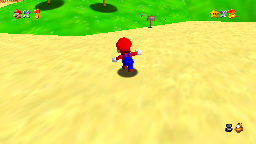
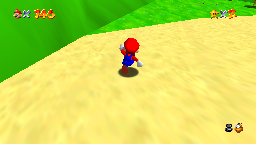
images are in correct slots

diff --git a/src/pc/pc_main.c b/src/pc/pc_main.c
@@ -322,7 +322,7 @@ void cam_focus_player(int playerIndex){
     // vec3f_copy(gLakituState.curFocus, gMarioStates[playerIndex].pos);
     
     gFOVState.fov = 60;
-    gHudDisplay.lives = playerIndex;
+    gHudDisplay.lives = gGlobalTimer;
 }
 
 
@@ -330,9 +330,7 @@ void force_make_frame(int playerIndex) {
 
     cam_focus_player(playerIndex);
 
-    CTX_BEGIN(CTX_INTERP);
-    patch_interpolations_before();
-    CTX_END(CTX_INTERP);
+
 
     // before level script
     config_gfx_pool();
@@ -346,56 +344,45 @@ void force_make_frame(int playerIndex) {
     display_and_vsync();
 
     // out of game loop
+    CTX_BEGIN(CTX_INTERP);
+    patch_interpolations_before();
+    CTX_END(CTX_INTERP);
+    CTX_BEGIN(CTX_RENDER);
+    produce_interpolation_frames_and_delay();
+    CTX_END(CTX_RENDER);
+    CTX_BEGIN(CTX_INTERP);
+    patch_interpolations_before();
+    CTX_END(CTX_INTERP);
     CTX_BEGIN(CTX_RENDER);
     produce_interpolation_frames_and_delay();
     CTX_END(CTX_RENDER);
 
-
 }
+
 void force_make_frame_support(int playerIndex) {
-    struct timeval startTime,time1,time2,time3,time4,time5,time6;
-
-    gettimeofday(&startTime, NULL);
-    cam_focus_player(playerIndex);
-    gettimeofday(&time1, NULL);
-
-    CTX_BEGIN(CTX_INTERP);
-    patch_interpolations_before();
-    CTX_END(CTX_INTERP);
-    gettimeofday(&time2, NULL);
+    // cam_focus_player(playerIndex);
+    gHudDisplay.lives = 420;
+    // CTX_BEGIN(CTX_INTERP);
+    // patch_interpolations_before();
+    // CTX_END(CTX_INTERP);
 
     // before level script
     config_gfx_pool();
-    gettimeofday(&time3, NULL);
 
     // level script
-    // 0.000120
     init_render_image();
     render_game();
     end_master_display_list();
     alloc_display_list(0);
-    gettimeofday(&time4, NULL);
 
     // after level script
     display_and_vsync();
-    gettimeofday(&time5, NULL);
 
     // out of game loop
-    // 0.000380
-    CTX_BEGIN(CTX_RENDER);
-    produce_interpolation_frames_and_delay();
-    CTX_END(CTX_RENDER);
-    gettimeofday(&time6, NULL);
+    // CTX_BEGIN(CTX_RENDER);
+    // produce_interpolation_frames_and_delay();
+    // CTX_END(CTX_RENDER);
 
-
-
-    double sec1 = (double)(time1.tv_usec - startTime.tv_usec) / 1000000 + (double)(time1.tv_sec - startTime.tv_sec);
-    double sec2 = (double)(time2.tv_usec - time1.tv_usec) / 1000000 + (double)(time2.tv_sec - time1.tv_sec);
-    double sec3 = (double)(time3.tv_usec - time2.tv_usec) / 1000000 + (double)(time3.tv_sec - time2.tv_sec);
-    double sec4 = (double)(time4.tv_usec - time3.tv_usec) / 1000000 + (double)(time4.tv_sec - time3.tv_sec);
-    double sec5 = (double)(time5.tv_usec - time4.tv_usec) / 1000000 + (double)(time5.tv_sec - time4.tv_sec);
-    double sec6 = (double)(time6.tv_usec - time5.tv_usec) / 1000000 + (double)(time6.tv_sec - time5.tv_sec);
-    printf("time: %f %f %f %f %f %f\n", sec1, sec2, sec3, sec4, sec5, sec6);
 }
 
 // bool doRun = false;
@@ -555,23 +542,29 @@ void update_controllers(struct inputStruct* inputs){
 
 
 struct gfxPixels** step_pixels(struct inputStruct* inputs){
-
+    
     update_controllers(inputs);
 
     produce_one_frame();
 
 
     // player 0's image gets overwritten for whatever reason if you don't have this
-    force_make_frame(MAX_PLAYERS-1);
-    force_make_frame(MAX_PLAYERS-1);
+    force_make_frame_support(MAX_PLAYERS-1);
+    force_make_frame_support(MAX_PLAYERS-1);
+    // force_make_frame(MAX_PLAYERS-1);
+    // force_make_frame(MAX_PLAYERS-1);
     for(int i = 0; i<MAX_PLAYERS; i++){
+
+        force_make_frame(i);
+
         if (gPixelPointers[i]){
             if (gPixelPointers[i]->pixels) free(gPixelPointers[i]->pixels);
             free(gPixelPointers[i]);
         }
-        force_make_frame(i);
-
         gPixelPointers[i] = gfx_get_pixels();
+
+
+        
     }
 
     return gPixelPointers;

diff --git a/src/game/game_init.c b/src/game/game_init.c
@@ -611,51 +611,6 @@ void game_loop_one_iteration(void) {
     // config_gfx_pool();
     read_controller_inputs();
 
-    // for (s32 i = 1; i < MAX_PLAYERS; i++) {
-    //     struct Controller *controller = &gControllers[i];
-    //     // if we're receiving inputs, update the controller struct
-    //     // with the new button info.
-    //     controller->controllerData = gControllers[0].controllerData;
-    //     if (random_u16() % 40 == 0){
-    //         controller->controllerData->button = random_u16();
-            
-    //     }
-    //     else{
-    //         controller->controllerData->button = 0;
-    //     }
-        
-    //     if (controller->controllerData != NULL) {
-
-    //         // the random part is added so that the marios dont just overlap constantly
-    //         // controller->rawStickX = gControllers[0].controllerData->stick_x;
-    //         // controller->rawStickY = gControllers[0].controllerData->stick_y;
-
-    //         // controller->rawStickX = gControllers[0].controllerData->stick_x + random_sign() * random_u16() % 100;
-    //         // controller->rawStickY = gControllers[0].controllerData->stick_y + random_sign() * random_u16() % 100;
-    //         controller->rawStickX = random_sign() * random_u16() % 100;
-    //         controller->rawStickY = random_sign() * random_u16() % 100;
-
-    //         if ( controller->rawStickX != 0 && controller->rawStickY != 0){
-    //             controller->controllerData->button |= INPUT_NONZERO_ANALOG;
-    //         }
-            
-
-    //         controller->extStickX = gControllers[0].controllerData->ext_stick_x;
-    //         controller->extStickY = gControllers[0].controllerData->ext_stick_y;
-
-    //         controller->buttonPressed = controller->controllerData->button
-    //                         & (controller->controllerData->button ^ controller->buttonDown);
-
-    //         controller->buttonDown = controller->controllerData->button;
-            
-    //         adjust_analog_stick(controller);
-            
-    //     }
-
-    // }
-
-
-
     levelCommandAddr = level_script_execute(levelCommandAddr);
     // display_and_vsync();
 

diff --git a/main.py b/main.py
@@ -49,7 +49,7 @@ funky.step_pixels.argtypes = [inputStruct * MAX_PLAYERS]
 # funky.step_ray_pixels.restype = gfxPixels
 
 
-
+imgs = list(range(MAX_PLAYERS))
 
 steps = 0
 running = True
@@ -86,13 +86,13 @@ while running:
     for i in range(MAX_PLAYERS):
         pixelStruct = pixelPointers[i].contents
 
-        img = Image.fromarray(np.fromiter(pixelStruct.pixels,dtype=int,count=pixelStruct.width * pixelStruct.height * 3).astype(np.uint8).reshape(( pixelStruct.width,pixelStruct.height, 3)))
-        img = img.transpose(Image.FLIP_TOP_BOTTOM)
+        imgs[i] = Image.fromarray(np.fromiter(pixelStruct.pixels,dtype=int,count=pixelStruct.width * pixelStruct.height * 3).astype(np.uint8).reshape(( pixelStruct.width,pixelStruct.height, 3)))
+        imgs[i] = imgs[i].transpose(Image.FLIP_TOP_BOTTOM)
         # img = img.resize((256,144))
 
         
-        img.save(f"test{i}.png")
-        surface = pygame.image.fromstring(img.tobytes(), img.size, img.mode)
+        imgs[i].save(f"test{i}.png")
+        surface = pygame.image.fromstring(imgs[i].tobytes(), imgs[i].size, imgs[i].mode)
         window.blit(surface, ((i % N_SCREENS_WIDTH) * pixelStruct.height, (i // 5) * pixelStruct.width))
 
     pygame.display.flip()

diff --git a/src/game/memory.h b/src/game/memory.h
@@ -8,8 +8,8 @@
 #define MEMORY_POOL_LEFT  0
 #define MEMORY_POOL_RIGHT 1
 
-#define GFX_POOL_SIZE      0x400000 //  4MB (Vanilla: 512kB)
-#define DEFAULT_POOL_SIZE 0x2000000 // 32MB (Vanilla: ~11MB)
+#define GFX_POOL_SIZE      0x800000 //  8MB (Vanilla: 512kB)
+#define DEFAULT_POOL_SIZE 0x4000000 // 64MB (Vanilla: ~11MB)
 
 struct DynamicPool
 {
